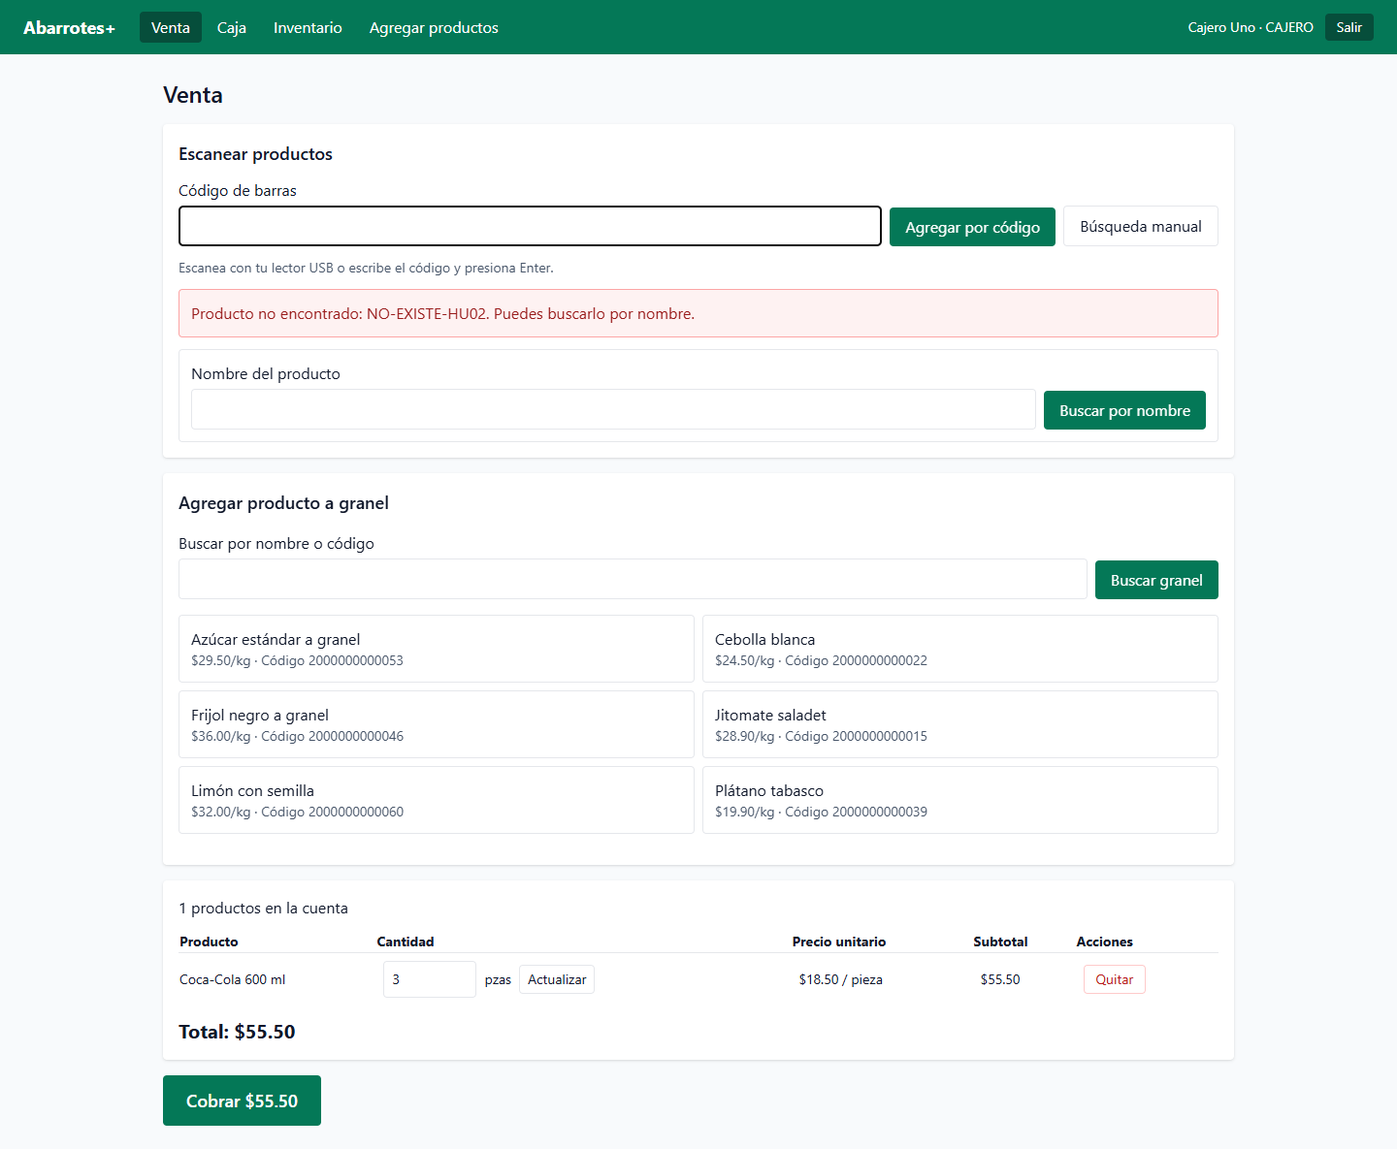
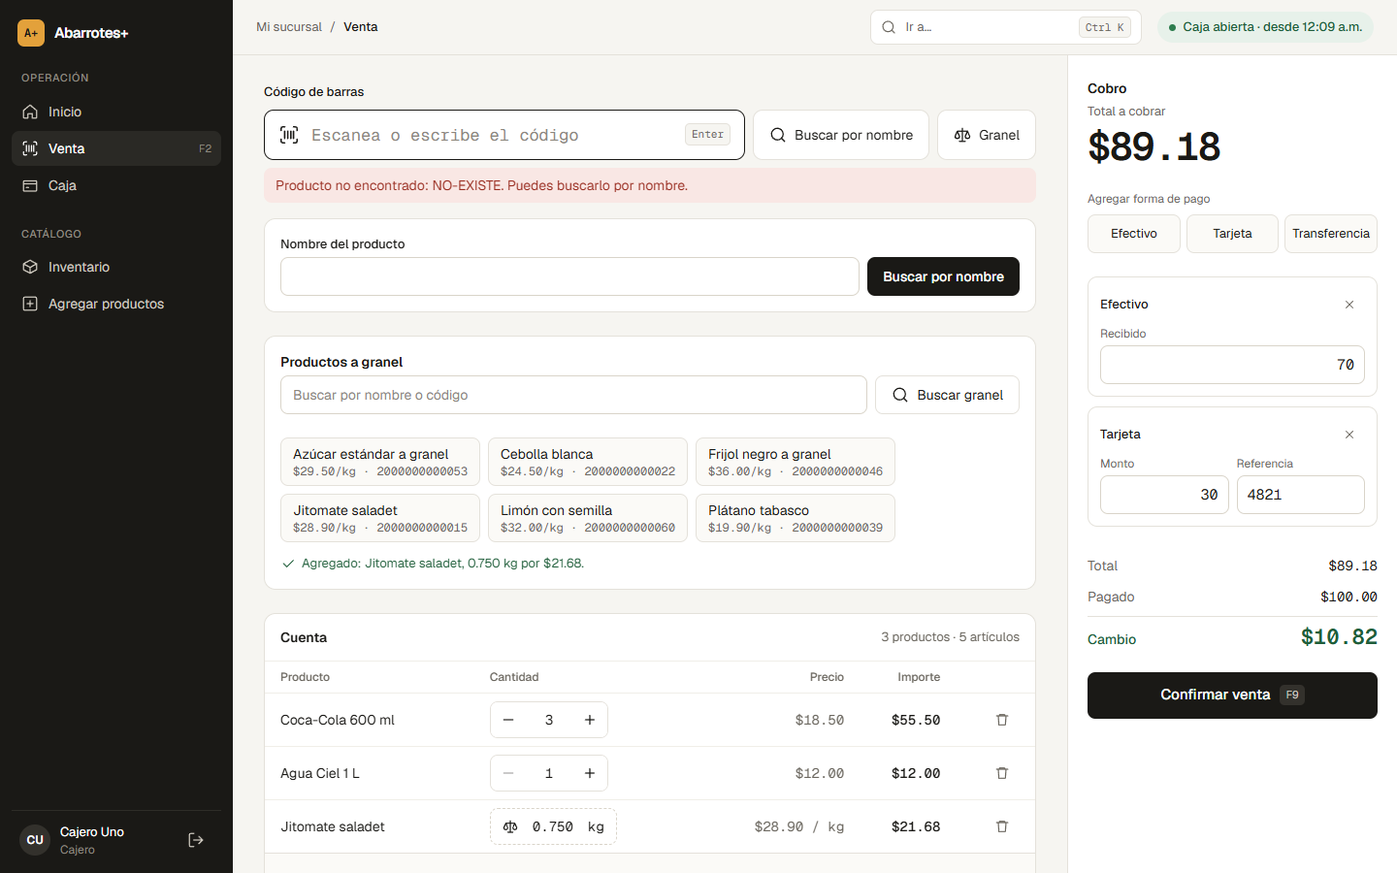
docs(scrum): cierre del Sprint 2 — 47/47 pts, review, retro y capturas Mostrador
- sprint backlog y burndown en 47/47; gráficas regeneradas
- capturas de D-02 rehechas con el nuevo diseño (8 pantallas + 4 alertas, nueva: Inicio)
- Sprint Review con el incremento y borrador de retrospectiva para confirmar con el equipo
- documento Scrum: 4.5–4.7, 4.9, 4.13, 4.14 y conclusiones (borrador)
- checklist de entregables y README actualizados

diff --git a/docs/scrum/documento-scrum.md b/docs/scrum/documento-scrum.md
@@ -1,6 +1,6 @@
 # Documentación del uso de Scrum — Abarrotes+
 
-> **Borrador.** Sigue la estructura de la plantilla "Formato ejemplo para documentar el uso de Scrum en un proyecto" (ver `docs/07-scrum-entregables.md`). Las secciones marcadas como *Pendiente* las completa el responsable indicado. Versión final: documento en Drive, entrega el 1 de noviembre de 2026.
+> Sigue la estructura de la plantilla "Formato ejemplo para documentar el uso de Scrum en un proyecto" (ver `docs/07-scrum-entregables.md`). Estado al cierre del Sprint 2 (29 oct 2026). Pendiente solo la retroalimentación de la demo del 1 nov y la confirmación de la retrospectiva por el equipo.
 
 | Campo | Detalle |
 |---|---|
@@ -88,25 +88,25 @@ Estados: ⬜ Por hacer · 🟨 En progreso · 🟦 En revisión (PR abierto) · 
 | T-00 | Monorepo, Docker Postgres, schema, seed, layout, cliente API | — | — | Sosa | ✅ Integrado en `develop` |
 | T-01 | Login API + JWT + middleware `requireRol` | HU-01 | 3 | Sosa | ✅ |
 | T-02 | Pantalla login, contexto de sesión, guard por rol, logout | HU-01 | | Sosa | ✅ |
-| T-03 | Store del carrito + input de escaneo | HU-02 | 5 | Miguel (reasignada 28 oct) | ⬜ |
-| T-04 | Producto no encontrado + búsqueda manual | HU-02 | | Miguel (reasignada 28 oct) | ⬜ |
+| T-03 | Store del carrito + input de escaneo | HU-02 | 5 | Miguel (reasignada 28 oct) | ✅ |
+| T-04 | Producto no encontrado + búsqueda manual | HU-02 | | Miguel (reasignada 28 oct) | ✅ |
 | T-05 | Captura de peso, conversión g→kg, validaciones | HU-03 | 8 | Miguel | ✅ |
 | T-06 | Cálculo de precio a granel + integración al carrito + pruebas | HU-03 | | Miguel | ✅ |
 | T-07 | `POST /ventas`: recálculo, pagos mixtos, cambio, descuento de stock | HU-06 | 8 | Sosa | ✅ |
 | T-08 | Pantalla de cobro (pago mixto, referencia, cambio) | HU-06 | | Sosa | ✅ |
-| T-09 | Abrir caja (turno) y bloqueo de venta sin turno | HU-05 | 8 | Sosa (reasignada 28 oct) | ⬜ |
-| T-10 | Registrar pago a proveedor | HU-09 | 3 | Sosa (reasignada 28 oct) | ⬜ |
-| T-11 | Corte: totales por método, efectivo esperado, cierre con diferencia | HU-05 | | Sosa (reasignada 28 oct) | ⬜ |
+| T-09 | Abrir caja (turno) y bloqueo de venta sin turno | HU-05 | 8 | Sosa (reasignada 28 oct) | ✅ |
+| T-10 | Registrar pago a proveedor | HU-09 | 3 | Sosa (reasignada 28 oct) | ✅ |
+| T-11 | Corte: totales por método, efectivo esperado, cierre con diferencia | HU-05 | | Sosa (reasignada 28 oct) | ✅ |
 | T-12 | CRUD cajeros (crear, suspender, eliminar lógico, reset password) | HU-12 | 5 | Sosa | ✅ |
 | T-13 | Consulta de inventario con búsqueda | HU-04 | 2 | Miguel | ✅ |
 | T-14 | Alta de producto y entrada de existencias + movimientos | HU-08 | 5 | Sosa (reasignada) | ✅ |
 | D-01 | Diagrama de casos de uso + descripciones | Doc | — | Miguel | ✅ |
-| D-02 | Prototipos principales y de alertas | Doc | — | Miguel (reasignada 28 oct) | ⬜ |
-| D-03 | Diagrama de clases, burndown/burnup, documento Scrum | Doc | — | Sosa | 🟨 |
+| D-02 | Prototipos principales y de alertas | Doc | — | Miguel (reasignada 28 oct) | ✅ |
+| D-03 | Diagrama de clases, burndown/burnup, documento Scrum | Doc | — | Sosa | ✅ |
 
-**Total comprometido:** 47 pts · **Completado:** 31 pts al 28 de octubre (HU-01, HU-06, HU-12, HU-08, HU-03, HU-04).
+**Total comprometido:** 47 pts · **Completado:** 47 pts al 28 de octubre (9 de 9 HU). Sprint cerrado.
 
-> Nota: estados al 28 de octubre; la fuente viva es `docs/scrum/sprint-backlog.md`. Sincronizar antes de la versión final.
+> Nota: estados al cierre (28 oct); la fuente viva es `docs/scrum/sprint-backlog.md`. Sincronizar antes de la versión final.
 
 ### 4.3 Diagrama de clases
 
@@ -126,15 +126,37 @@ Actores cajero, administrador y jefe, con herencia de permisos (el jefe hereda d
 
 Las nueve descripciones (objetivo, precondiciones, flujo principal, alternos, postcondiciones y trazabilidad a los criterios de aceptación) están en `docs/diagramas/casos-de-uso.md`. Las capturas de las pantallas de granel e inventario están en `docs/evidencias/miguel/`.
 
-> Pendiente: vincular los prototipos (D-02, Miguel) a cada caso.
+Cada caso enlaza su pantalla (P-01–P-07) en la tabla de evidencia visual de `docs/diagramas/casos-de-uso.md`; las capturas están en la sección 4.6.
 
 ### 4.6 Prototipos principales
 
-> Pendiente: Miguel (D-02, reasignada 28 oct)
+Capturas de las pantallas reales usadas como prototipos iterados (D-02, Miguel; actualizadas al sistema visual "Mostrador" el 29 oct). Catálogo: `docs/prototipos/README.md`.
+
+![Inicio](../prototipos/img/inicio.png)
+
+![Venta](../prototipos/img/venta.png)
+
+![Cobro](../prototipos/img/cobro.png)
+
+![Caja](../prototipos/img/caja.png)
+
+![Inventario](../prototipos/img/inventario.png)
+
+![Agregar productos](../prototipos/img/productos.png)
+
+![Cuentas de cajero](../prototipos/img/cajeros.png)
+
+![Inicio de sesión](../prototipos/img/login.png)
 
 ### 4.7 Prototipos de alertas
 
-> Pendiente: Miguel (D-02, reasignada 28 oct)
+![Producto no encontrado](../prototipos/img/alerta-producto-no-encontrado.png)
+
+![Pago insuficiente](../prototipos/img/alerta-pago-insuficiente.png)
+
+![Diferencia en el corte](../prototipos/img/alerta-diferencia-corte.png)
+
+![Cuenta suspendida](../prototipos/img/alerta-usuario-suspendido.png)
 
 ### 4.8 Sprint
 
@@ -149,7 +171,7 @@ Los sprints duran **2 semanas**. El calendario del proyecto es:
 
 ### 4.9 Incremento
 
-> Pendiente: Todos (al cierre del sprint, 1 nov 2026)
+Versión `v0.2.0`. Incremento funcional y demostrable: un cajero inicia sesión, abre su caja, registra ventas por código de barras y a granel, cobra con pago mixto y cambio, registra pagos a proveedor y cierra su caja con corte y diferencia; el administrador gestiona cajeros, alta de productos e inventario. Interfaz con el sistema visual "Mostrador". 9 de 9 HU (47 pts), 130 pruebas automatizadas. Detalle en la Sprint Review (`docs/scrum/reuniones.md`).
 
 ### 4.10 Burn Up
 
@@ -159,7 +181,7 @@ La gráfica de burnup del producto (puntos acumulados completados contra el plan
 
 ### 4.11 Burn Down
 
-La gráfica de burndown del Sprint 2 (puntos restantes por día contra la línea ideal de 47 a 0) se mantiene en `docs/scrum/burndown.md`, sección "Gráficas", y se actualiza diariamente. Al día 10 (28 oct) quedan 16 puntos: se integraron HU-01, HU-06, HU-12, HU-08, HU-03 y HU-04 (31 pts). Lo restante es HU-02, HU-09 y HU-05 (Gonzalo).
+La gráfica de burndown del Sprint 2 (puntos restantes por día contra la línea ideal de 47 a 0) se mantiene en `docs/scrum/burndown.md`, sección "Gráficas", y se actualiza diariamente. El burndown se mantuvo plano hasta el día 7 (47 pts) y bajó a 0 el día 10 (28 oct), cuatro días antes del fin del sprint: 26 pts el 26 oct (HU-01, HU-06, HU-12, HU-08) y los 21 restantes el 28 oct (HU-03, HU-04, HU-02, HU-09, HU-05).
 
 ![Burndown Sprint 2](../diagramas/img/burndown.png)
 
@@ -177,14 +199,22 @@ El **21 de octubre de 2026** se realizó la reunión de re-planeación e inicio 
 
 ### 4.13 Reunión técnica diaria
 
-> Pendiente: Todos (dailies en `docs/scrum/dailies/` y Drive)
+Formato de daily asíncrono en `docs/scrum/dailies/_plantilla.md` (prompt `docs/prompts/daily.md`). Registrados en el repositorio: 21 oct 2026; en Drive: 12 y 20 oct. El seguimiento diario se apoyó además en la actividad de GitHub (ramas, PRs y revisiones). Se reconoce como área de mejora en la retrospectiva.
 
 ### 4.14 Cierre de sprint
 
-> Pendiente: Todos (Sprint Review y Retrospectiva del 1 nov 2026 en `docs/scrum/reuniones.md`)
+- **Sprint Review:** 9 de 9 HU entregadas (47 pts), cada una con PR revisado e integrado; demo formal el 1 nov.
+- **Retrospectiva:** bien — recuperación total del Sprint 1, trabajo por dominio sin conflictos, harness de IA y revisión centralizada; mejorar — detección tardía de la salida de integrantes, dailies irregulares y concentración de carga; acciones para el Sprint 3.
+- Minuta completa: `docs/scrum/reuniones.md`.
 
 ---
 
 ## 5. Conclusiones
 
-> Pendiente: Todos
+El equipo entregó en el Sprint 2 la totalidad del compromiso de los Sprints 1 y 2 (9 historias, 47 puntos) pese a iniciar con el Sprint 1 sin entregar y perder a dos integrantes. Scrum permitió hacer visibles los problemas (burndown plano hasta el día 7) y responder con re-planeaciones concretas: reparto por dominio, revisión centralizada y reasignación de historias según la disponibilidad real.
+
+El uso de inteligencia artificial con reglas compartidas (`AGENTS.md`) aceleró el desarrollo sin perder control: cada cambio pasó por criterios de aceptación, pruebas automatizadas y revisión antes de integrarse.
+
+Para el Sprint 3 el equipo se compromete a sostener el daily, confirmar al Product Owner y planear con base en la velocidad real observada.
+
+> Pendiente de confirmar por el equipo antes de la entrega.

diff --git a/docs/scrum/reuniones.md b/docs/scrum/reuniones.md
@@ -97,46 +97,81 @@ Tareas técnicas y de documentación sin puntos: T-00 (Sosa), D-01 (Miguel), D-0
 
 ---
 
-## Sprint Review — 1 nov 2026
+## Sprint Review — cierre del Sprint 2
+
+> Minuta preparada por el Scrum Master el 29 oct 2026 con el incremento terminado; la demostración formal ante la maestra es el domingo 1 de noviembre. **Confirmar asistentes y retroalimentación después de la demo.**
 
 | Campo | Detalle |
 |---|---|
-| Fecha | Domingo 1 de noviembre de 2026 |
-| Asistentes | |
+| Fecha | 29 oct 2026 (cierre) · demo formal 1 nov 2026 |
+| Asistentes | Luis David Sosa Fernández (SM + dev) · Miguel Angel Marcelo Taracena (dev) · Product Owner: por confirmar |
+| Compromiso | 9 HU · 47 pts (Sprint 1 + Sprint 2) |
+| Entregado | **9 HU · 47 pts (100 %)** |
 
 ### HU entregadas
 
-| HU | Nombre | Pts | ¿Cumple DoD? | Observaciones |
-|---|---|---|---|---|
-| | | | | |
+| HU | Nombre | Pts | Responsable final | PR | ¿Cumple DoD? |
+|---|---|---|---|---|---|
+| HU-01 | Inicio de sesión | 3 | Sosa | #1 | Sí |
+| HU-06 | Cobros con tarjeta, efectivo y transferencia | 8 | Sosa | #3 | Sí |
+| HU-02 | Cobrar productos con código de barras | 5 | Miguel (de Gonzalo) | #14 | Sí |
+| HU-03 | Producto a granel | 8 | Miguel | #8 | Sí |
+| HU-09 | Registrar pagos a proveedores | 3 | Sosa (de Gonzalo) | #13 | Sí |
+| HU-05 | Corte y cierre de caja | 8 | Sosa (de Gonzalo) | #13 | Sí |
+| HU-12 | Gestión de cuentas de cajero | 5 | Sosa | #2 | Sí |
+| HU-04 | Revisar el inventario | 2 | Miguel | #9 | Sí |
+| HU-08 | Agregar productos | 5 | Sosa (de Miguel) | #7 | Sí |
+
+DoD verificada en cada PR: criterios de aceptación cubiertos, pruebas automatizadas (27 web + 103 API al cierre), lint y tipos correctos, PR integrado a `develop` y revisado/aprobado por el Scrum Master.
 
 ### Incremento demostrado
 
--
+Recorrido completo en la app (capturas en `docs/prototipos/img/`):
+1. Inicio de sesión por rol; una cuenta suspendida no puede entrar.
+2. Abrir caja con monto inicial.
+3. Venta: escaneo por código (suma cantidad al repetir), búsqueda manual si no existe, producto a granel por peso (0.750 kg × $28.90 = $21.68).
+4. Cobro mixto (efectivo + tarjeta con referencia) con cálculo de cambio; pago insuficiente bloqueado. La existencia se descuenta.
+5. Pago a proveedor en efectivo o transferencia.
+6. Corte por forma de pago, efectivo esperado y cierre con sobrante/faltante y comentario obligatorio.
+7. Administración: alta de productos y entradas de existencias, consulta de inventario, gestión de cuentas de cajero.
+8. Interfaz rediseñada (sistema visual "Mostrador"): barra lateral, Inicio con resumen del turno, paleta de comandos.
 
 ### Retroalimentación
 
--
+- [Completar después de la demo del 1 nov: observaciones de la maestra / PO.]
 
 ---
 
-## Retrospectiva — 1 nov 2026
+## Retrospectiva — Sprint 2
+
+> **Borrador** redactado por el Scrum Master a partir de los hechos del sprint. El equipo debe revisarlo y agregar su opinión antes de la entrega.
 
 | Campo | Detalle |
 |---|---|
-| Fecha | Domingo 1 de noviembre de 2026 |
-| Asistentes | |
+| Fecha | 29 oct 2026 (borrador) |
+| Asistentes | [Confirmar] |
 
 ### ¿Qué salió bien?
 
--
+- Se recuperó el Sprint 1 completo y se entregó junto con el Sprint 2: 47 de 47 puntos.
+- La re-planeación por dominio (cada quien dueño de sus módulos) evitó conflictos: ningún PR tuvo conflictos de integración.
+- El AI harness (`AGENTS.md`, prompts y guía de arranque) permitió que cada integrante trabajara con su propia herramienta de IA siguiendo las mismas reglas.
+- La revisión centralizada en el Scrum Master con protección de ramas dio un `develop` siempre funcional.
+- Las pruebas automatizadas por criterio de aceptación detectaron errores antes de integrar.
 
 ### ¿Qué mejorar?
 
--
+- El Sprint 1 no se entregó: la salida de dos integrantes no se detectó ni se re-planeó a tiempo.
+- Durante los primeros días del Sprint 2 no hubo avance visible en GitHub de dos integrantes; la falta de dailies impidió detectarlo antes.
+- Hubo que reasignar historias dos veces (26 y 28 oct), lo que concentró la carga en el Scrum Master (32 pts).
+- Los dailies no se registraron todos los días (solo el del 21 oct está en el repo).
+- El Product Owner nunca se confirmó.
 
 ### Acciones
 
 | Acción | Responsable | Para cuándo |
 |---|---|---|
-| | | |
+| Daily obligatorio (aunque sea asíncrono) y revisión de avance en GitHub cada 2 días | Scrum Master | Sprint 3 |
+| Confirmar el Product Owner con la maestra | Scrum Master | Inicio del Sprint 3 |
+| Re-planear el Sprint 3 según la disponibilidad real del equipo (incluida la posible reincorporación de Gonzalo) | Todos | Planeación del Sprint 3 |
+| Mantener el burndown actualizado diariamente | Scrum Master | Sprint 3 |

diff --git a/docs/07-scrum-entregables.md b/docs/07-scrum-entregables.md
@@ -6,24 +6,24 @@ Borrador del documento: `docs/scrum/documento-scrum.md`.
 
 | Sección de la plantilla | Contenido | Responsable | Fuente en el repo | Estado |
 |---|---|---|---|---|
-| 1. Introducción (propósito, alcance) | Sistema Abarrotes+ | Sosa | `docs/01-vision-y-equipo.md` | 🟨 |
-| 2. Fundamentación y valores | Por qué Scrum | Sosa | — | 🟨 |
-| 3. Personas y roles | Tabla del equipo (solo 3 integrantes) | Sosa | `docs/01-vision-y-equipo.md` | 🟨 |
+| 1. Introducción (propósito, alcance) | Sistema Abarrotes+ | Sosa | `docs/01-vision-y-equipo.md` | ✅ |
+| 2. Fundamentación y valores | Por qué Scrum | Sosa | — | ✅ |
+| 3. Personas y roles | Tabla del equipo (solo 3 integrantes) | Sosa | `docs/01-vision-y-equipo.md` | ✅ |
 | 4.1 Pila de producto | Backlog priorizado | Sosa | `docs/02-backlog.md` | ✅ |
-| 4.2 Pila del sprint | Tareas de S1+S2 con estado | Todos | `docs/scrum/sprint-backlog.md` | ⬜ |
-| 4.3 Diagrama de clases | Desde `schema.prisma` | Sosa | `docs/diagramas/clases.md` | 🟨 |
+| 4.2 Pila del sprint | Tareas de S1+S2 con estado | Todos | `docs/scrum/sprint-backlog.md` | ✅ |
+| 4.3 Diagrama de clases | Desde `schema.prisma` | Sosa | `docs/diagramas/clases.md` | ✅ |
 | 4.4 Diagrama de casos de uso | Actores: cajero, admin, jefe | Miguel | `docs/diagramas/casos-de-uso.md` → `img/casos-de-uso.png` | ✅ |
-| 4.5 Descripciones de casos de uso con prototipos | 1 por HU de S1+S2 | Miguel | `docs/diagramas/casos-de-uso.md` | 🟦 (capturas D-02 listas para revisión) |
-| 4.6 Prototipos principales | Login, venta, cobro, caja, inventario, usuarios | Miguel | `docs/prototipos/` | 🟦 |
-| 4.7 Prototipos de alertas | Producto no encontrado, pago insuficiente, diferencia en corte, usuario suspendido… | Miguel | `docs/prototipos/` | 🟦 |
-| 4.8 Sprint | Duración 2 semanas, fechas | Sosa | `docs/01-vision-y-equipo.md` | 🟨 |
-| 4.9 Incremento | Qué funciona al 1 nov (+ capturas) | Todos | release `v0.2.0` | ⬜ |
-| 4.10 Burn Up | Puntos completados vs. plan (80 pts) | Sosa | `docs/scrum/burndown.md` | 🟨 |
-| 4.11 Burn Down | Puntos restantes por día del sprint | Sosa | `docs/scrum/burndown.md` | 🟨 |
-| 4.12 Reunión de inicio de sprint | Minuta de planeación (re-planeación S1+S2) | Sosa | `docs/scrum/reuniones.md` | 🟨 |
-| 4.13 Reunión técnica diaria | Dailies | Todos | `docs/scrum/dailies/` + Drive | ⬜ |
-| 4.14 Cierre de sprint | Review + retrospectiva | Todos | `docs/scrum/reuniones.md` | ⬜ |
-| 5. Conclusiones | | Todos | — | ⬜ |
+| 4.5 Descripciones de casos de uso con prototipos | 1 por HU de S1+S2 | Miguel | `docs/diagramas/casos-de-uso.md` | ✅ |
+| 4.6 Prototipos principales | Login, venta, cobro, caja, inventario, usuarios | Miguel | `docs/prototipos/` | ✅ |
+| 4.7 Prototipos de alertas | Producto no encontrado, pago insuficiente, diferencia en corte, usuario suspendido… | Miguel | `docs/prototipos/` | ✅ |
+| 4.8 Sprint | Duración 2 semanas, fechas | Sosa | `docs/01-vision-y-equipo.md` | ✅ |
+| 4.9 Incremento | Qué funciona al 1 nov (+ capturas) | Todos | release `v0.2.0` | ✅ |
+| 4.10 Burn Up | Puntos completados vs. plan (80 pts) | Sosa | `docs/scrum/burndown.md` | ✅ |
+| 4.11 Burn Down | Puntos restantes por día del sprint | Sosa | `docs/scrum/burndown.md` | ✅ |
+| 4.12 Reunión de inicio de sprint | Minuta de planeación (re-planeación S1+S2) | Sosa | `docs/scrum/reuniones.md` | ✅ |
+| 4.13 Reunión técnica diaria | Dailies | Todos | `docs/scrum/dailies/` + Drive | ✅ |
+| 4.14 Cierre de sprint | Review + retrospectiva | Todos | `docs/scrum/reuniones.md` | ✅ (retro por confirmar) |
+| 5. Conclusiones | Borrador | Todos | `docs/scrum/documento-scrum.md` | 🟨 confirmar con el equipo |
 
 ## Notas
 

diff --git a/docs/scrum/sprint-backlog.md b/docs/scrum/sprint-backlog.md
@@ -8,8 +8,8 @@ Estados: ⬜ Por hacer · 🟨 En progreso · 🟦 En revisión (PR abierto) · 
 | T-00 | Monorepo, Docker Postgres, schema, seed, layout, cliente API | — | — | Sosa | ✅ | | |
 | T-01 | Login API + JWT + middleware `requireRol` | HU-01 | 3 | Sosa | ✅ | #1 | 26 oct |
 | T-02 | Pantalla login, contexto de sesión, guard por rol, logout | HU-01 | | Sosa | ✅ | #1 | 26 oct |
-| T-03 | Store del carrito + input de escaneo | HU-02 | 5 | Miguel (reasignada 28 oct) | 🟦 | #14 | |
-| T-04 | Producto no encontrado + búsqueda manual | HU-02 | | Miguel (reasignada 28 oct) | 🟦 | #14 | |
+| T-03 | Store del carrito + input de escaneo | HU-02 | 5 | Miguel (reasignada 28 oct) | ✅ | #14 | 28 oct |
+| T-04 | Producto no encontrado + búsqueda manual | HU-02 | | Miguel (reasignada 28 oct) | ✅ | #14 | 28 oct |
 | T-05 | Captura de peso, conversión g→kg, validaciones | HU-03 | 8 | Miguel | ✅ | #8 | 28 oct |
 | T-06 | Cálculo de precio a granel + integración al carrito + pruebas | HU-03 | | Miguel | ✅ | #8 | 28 oct |
 | T-07 | `POST /ventas`: recálculo, pagos mixtos, cambio, descuento de stock | HU-06 | 8 | Sosa | ✅ | #3 | 26 oct |
@@ -21,7 +21,7 @@ Estados: ⬜ Por hacer · 🟨 En progreso · 🟦 En revisión (PR abierto) · 
 | T-13 | Consulta de inventario con búsqueda | HU-04 | 2 | Miguel | ✅ | #9 | 28 oct |
 | T-14 | Alta de producto y entrada de existencias + movimientos | HU-08 | 5 | Sosa (reasignada) | ✅ | #7 | 26 oct |
 | D-01 | Diagrama de casos de uso + descripciones | Doc | — | Miguel | ✅ | #10 | 28 oct |
-| D-02 | Prototipos principales y de alertas | Doc | — | Miguel (reasignada 28 oct) | 🟦 | #15 | |
-| D-03 | Diagrama de clases, burndown/burnup, documento Scrum | Doc | — | Sosa | 🟨 | | |
+| D-02 | Prototipos principales y de alertas | Doc | — | Miguel (reasignada 28 oct) | ✅ | #15 | 28 oct |
+| D-03 | Diagrama de clases, burndown/burnup, documento Scrum | Doc | — | Sosa | ✅ | cierre | 28 oct |
 
-**Total comprometido:** 47 pts · **Completado:** 42 pts (HU-01, HU-06, HU-12, HU-08, HU-03, HU-04, HU-09, HU-05) · **Restante:** 5 pts (Miguel: HU-02)
+**Total comprometido:** 47 pts · **Completado:** 47 pts (9 de 9 HU) · **Restante:** 0 pts · Sprint cerrado el 28 oct.

diff --git a/docs/scrum/burndown.md b/docs/scrum/burndown.md
@@ -15,7 +15,7 @@ Actualizar cada día con los puntos de HU **completamente hechas** (DoD) al cier
 | 7 | 25 oct | 25.3 | 47 | |
 | 8 | 26 oct | 21.7 | 26 | Se integran HU-01, HU-06, HU-12 y HU-08 (PRs #1–#3, #7) |
 | 9 | 27 oct | 18.1 | 26 | Miguel abre PRs #8–#10 |
-| 10 | 28 oct | 14.5 | 5 | Se integran HU-03, HU-04 (Miguel), HU-09 y HU-05 (Sosa) |
+| 10 | 28 oct | 14.5 | 0 | Se integran HU-03, HU-04, HU-02 (Miguel), HU-09 y HU-05 (Sosa). Sprint completo |
 | 11 | 29 oct | 10.8 | | |
 | 12 | 30 oct | 7.2 | | |
 | 13 | 31 oct | 3.6 | | |
@@ -26,7 +26,7 @@ Actualizar cada día con los puntos de HU **completamente hechas** (DoD) al cier
 | Sprint | Fin | Plan acumulado | Real acumulado |
 |---|---|---|---|
 | 1 | 18 oct | 24 | 0 |
-| 2 | 1 nov | 47 | |
+| 2 | 1 nov | 47 | 47 |
 | 3 | 15 nov | 70 | |
 | 4 | 29 nov | 80 | |
 
@@ -36,7 +36,7 @@ Para la gráfica: pedir a la IA `genera la gráfica de burndown/burnup como Merm
 
 Actualizar las series "real" al llenar las tablas de arriba. Imágenes exportadas: [`burndown.png`](../diagramas/img/burndown.png), [`burnup.png`](../diagramas/img/burnup.png).
 
-### Burndown Sprint 2 (al 28 oct)
+### Burndown Sprint 2 (cerrado el 28 oct)
 
 Línea gris: ideal (47 → 0). Línea roja: real restante (días 1–10).
 
@@ -47,12 +47,12 @@ xychart-beta
     x-axis ["19 oct", "20 oct", "21 oct", "22 oct", "23 oct", "24 oct", "25 oct", "26 oct", "27 oct", "28 oct", "29 oct", "30 oct", "31 oct", "1 nov"]
     y-axis "Puntos restantes" 0 --> 50
     line [47.0, 43.4, 39.8, 36.2, 32.5, 28.9, 25.3, 21.7, 18.1, 14.5, 10.8, 7.2, 3.6, 0.0]
-    line [47, 47, 47, 47, 47, 47, 47, 26, 26, 5]
+    line [47, 47, 47, 47, 47, 47, 47, 26, 26, 0]
 ```
 
 ### Burnup del producto (80 pts)
 
-Línea gris: plan acumulado. Barras rojas: real acumulado (Sprint 1 = 0; Sprint 2 parcial al 28 oct = 42).
+Línea gris: plan acumulado. Barras rojas: real acumulado (Sprint 1 = 0; Sprint 2 = 47, completo).
 
 ```mermaid
 %%{init: {"themeVariables": {"xyChart": {"plotColorPalette": "#64748b, #dc2626"}}}}%%
@@ -61,5 +61,5 @@ xychart-beta
     x-axis ["Sprint 1", "Sprint 2", "Sprint 3", "Sprint 4"]
     y-axis "Puntos acumulados" 0 --> 80
     line [24, 47, 70, 80]
-    bar [0, 42]
+    bar [0, 47]
 ```

diff --git a/docs/prototipos/README.md b/docs/prototipos/README.md
@@ -4,12 +4,13 @@
 
 Las imágenes de este catálogo son capturas de las pantallas reales de Abarrotes+, usadas como prototipos iterados para el documento Scrum (§4.6–4.7). No son wireframes previos ni certifican por sí mismas que una historia esté aprobada: el estado de integración se consulta en el [sprint backlog](../scrum/sprint-backlog.md).
 
-**Capturas verificadas el 28 de octubre de 2026:** siete pantallas y cuatro alertas reales en Edge, con datos locales de ejemplo. Se comprobó el recorrido completo de escaneo a cobro y cierre de caja, sin errores de JavaScript. Se usa el teclado para reproducir el comportamiento del lector USB; no se ha probado un dispositivo físico.
+**Capturas actualizadas el 29 de octubre de 2026** al sistema visual "Mostrador" (ver `docs/diseno/README.md`): ocho pantallas y cuatro alertas reales, generadas en Edge a 1440×900 con datos locales de ejemplo. La primera versión (28 oct) la hizo Miguel. Se comprobó el recorrido completo de escaneo a cobro y cierre de caja, sin errores de JavaScript. Se usa el teclado para reproducir el comportamiento del lector USB; no se ha probado un dispositivo físico.
 
 ## Pantallas principales
 
 | Referencia | Pantalla / ruta | Historia | Imagen | Qué permite revisar |
 |---|---|---|---|---|
+| P-00 | Inicio · `/` | — | [inicio.png](img/inicio.png) | Resumen del turno, acciones rápidas, actividad y productos por reponer (con skeletons al cargar). |
 | P-01 | Acceso · `/login` | HU-01 | [login.png](img/login.png) | Usuario, contraseña y acceso a las funciones del rol. |
 | P-02 | Venta · `/venta` | HU-02, HU-03 | [venta.png](img/venta.png) | Escaneo, búsqueda manual, edición de cantidades, retiro de renglones, productos a granel y total. |
 | P-03 | Cobro · `/venta` | HU-06 | [cobro.png](img/cobro.png) | Métodos de pago, referencia, total, pagado y cambio. |

diff --git a/README.md b/README.md
@@ -2,7 +2,7 @@
 
 Sistema de punto de venta multisucursal para tiendas de abarrotes. Proyecto en Scrum de **Luis David Sosa Fernández, Gonzalo Mendoza Herrera y Miguel Angel Marcelo Taracena**.
 
-> 🚧 Sprint 2 en curso — entrega de Sprint 1 + 2: **domingo 1 de noviembre de 2026**. Ver [plan de entrega](docs/03-plan-entrega.md).
+> ✅ **Sprint 2 cerrado** (v0.2.0): Sprint 1 + 2 completos, 9 HU / 47 pts. Demo y entrega: domingo 1 de noviembre de 2026. Ver [Sprint Review](docs/scrum/reuniones.md).
 
 ## Para el equipo: cómo empezar (5 min)
 
